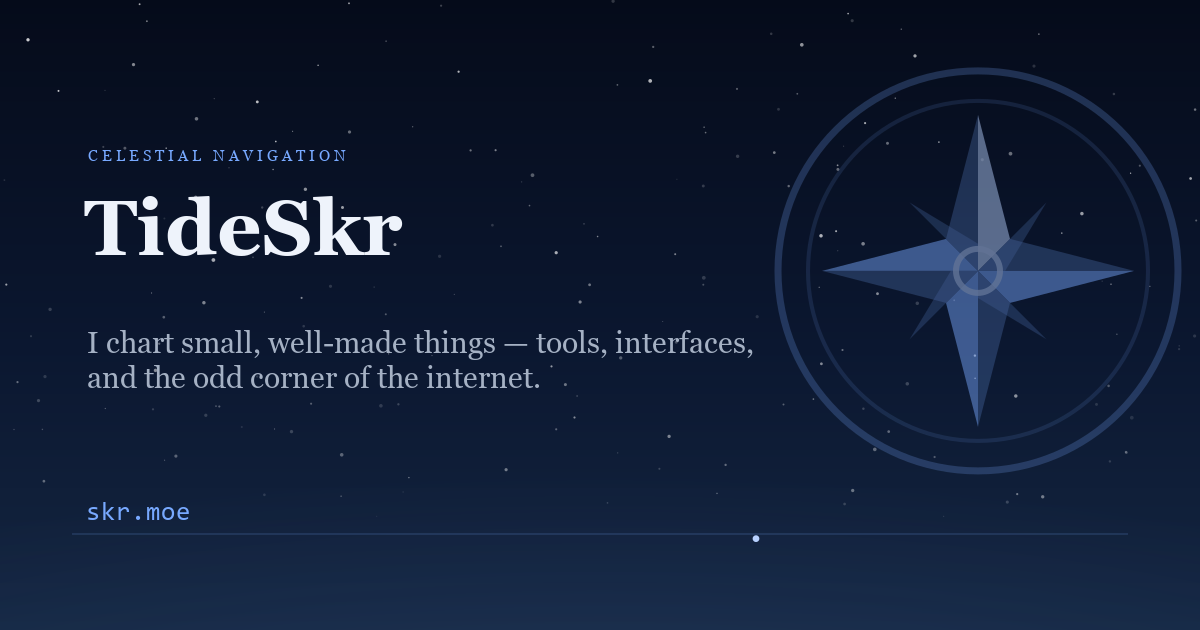
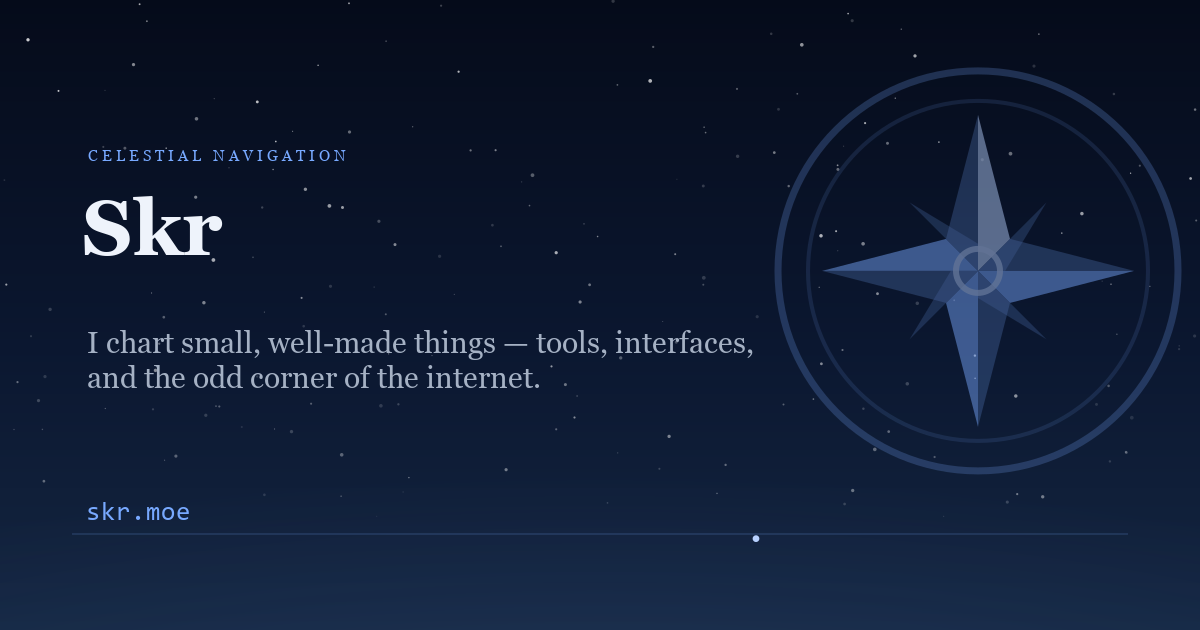
Unify Skr branding and refine mobile menu

Changed region(s): [[0.0617, 0.3016, 0.3392, 0.4222]]

diff --git a/src/consts.ts b/src/consts.ts
@@ -8,10 +8,10 @@ import type { IconName } from '~/components/icons';
 export const SITE = {
   domain: 'skr.moe',
   url: 'https://skr.moe',
-  author: 'TideSkr',
+  author: 'Skr',
   /** `skr` is short for *seeker*. */
   handle: 'skr',
-  email: 'hi@skr.moe',
+  email: 'contact@skr.moe',
   startYear: 2026,
 } as const;
 
@@ -40,7 +40,7 @@ export type SocialLink = {
 
 export const SOCIALS: SocialLink[] = [
   { id: 'github', label: 'GitHub', href: 'https://github.com/TideSkr', icon: 'github' },
-  { id: 'x', label: 'X', href: 'https://x.com/TideSkr', icon: 'x' },
+  { id: 'x', label: 'X', href: 'https://x.com/SkrTide', icon: 'x' },
   { id: 'telegram', label: 'Telegram', href: 'https://t.me/TideSkr', icon: 'telegram' },
   { id: 'mail', label: 'Email', href: `mailto:${SITE.email}`, icon: 'mail' },
   { id: 'rss', label: 'RSS', href: '/rss.xml', icon: 'rss' },
